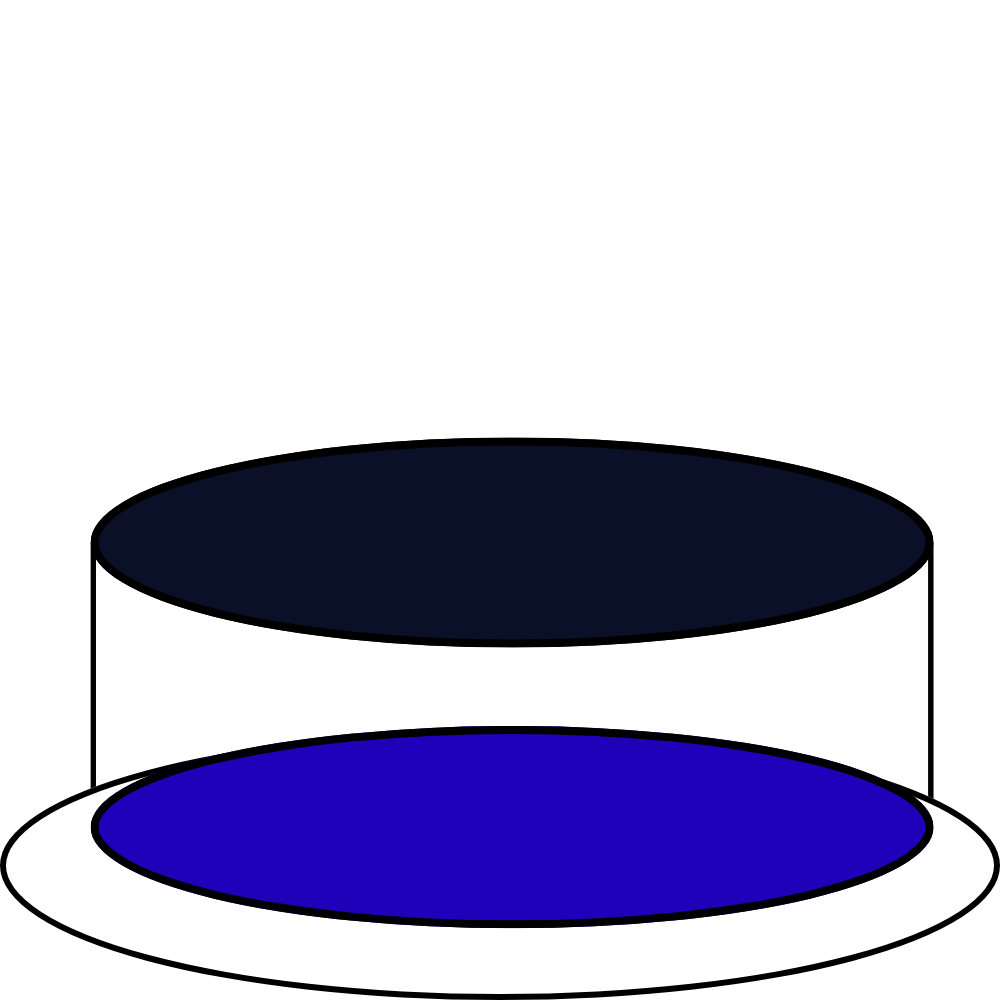
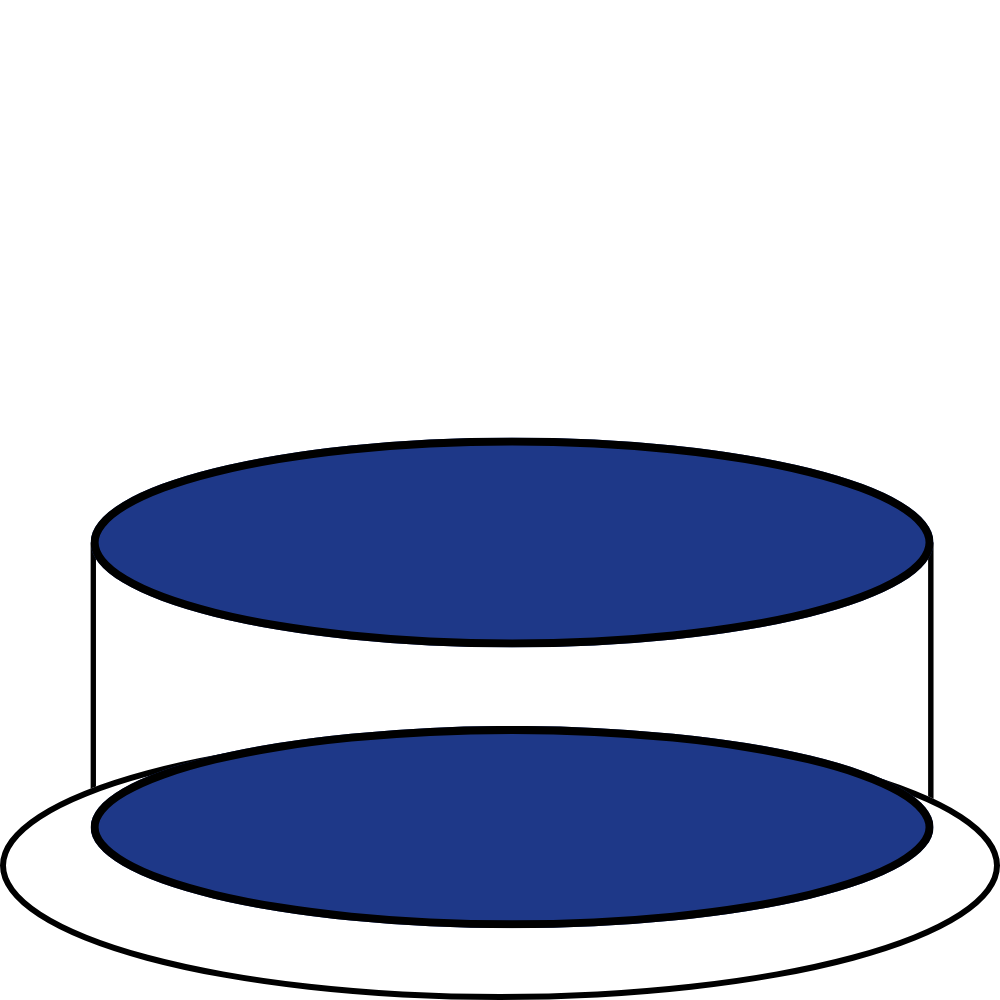
made mobile responsive

Changed region(s): [[0.093, 0.434, 0.93, 0.651], [0.093, 0.713, 0.93, 0.93]]

diff --git a/src/components/CollaborationSection.js b/src/components/CollaborationSection.js
@@ -57,7 +57,7 @@ export default function CollaborationSection() {
             alt="CTA Button"
             width={150}
             height={75}
-            className={`cursor-pointer mt-4 transition-transform duration-300 md:w-[200px] md:h-[100px] ${isClicked ? 'scale-95' : 'scale-100'}`}
+            className={`cursor-pointer mt-4 transition-transform duration-300 md:w-[200px] md:h-[200px] ${isClicked ? 'scale-95' : 'scale-100'}`}
             onClick={handleClick}
           />
           {isClicked && (

diff --git a/src/components/DesignerSection.js b/src/components/DesignerSection.js
@@ -26,7 +26,7 @@ const DesignerSection = () => {
             ref={imageRef}
             src="/myimage.jpg" 
             alt="Designer" 
-            className="w-full h-full object-cover"
+            className="w-[150%] h-[150%] object-cover -translate-x-[0%] -translate-y-[25%] filter grayscale-[80%] transition-all duration-300 hover:grayscale-0"
             style={{ transform: 'translateY(0px)' }}
           />
         </div>

diff --git a/src/components/WorkSection.js b/src/components/WorkSection.js
@@ -117,7 +117,7 @@ export default function WorkSection() {
       ref={sectionRef}
       className="relative w-full bg-blue-600 py-24 overflow-hidden"
       style={{ 
-        background: 'linear-gradient(to bottom, #05204a 0%, #1f01b9 100%)'
+        background: 'linear-gradient(to bottom, #05204a 0%, #1E3888 100%)'
       }}
     >
       {/* Pixelated effect using colored blocks */}
